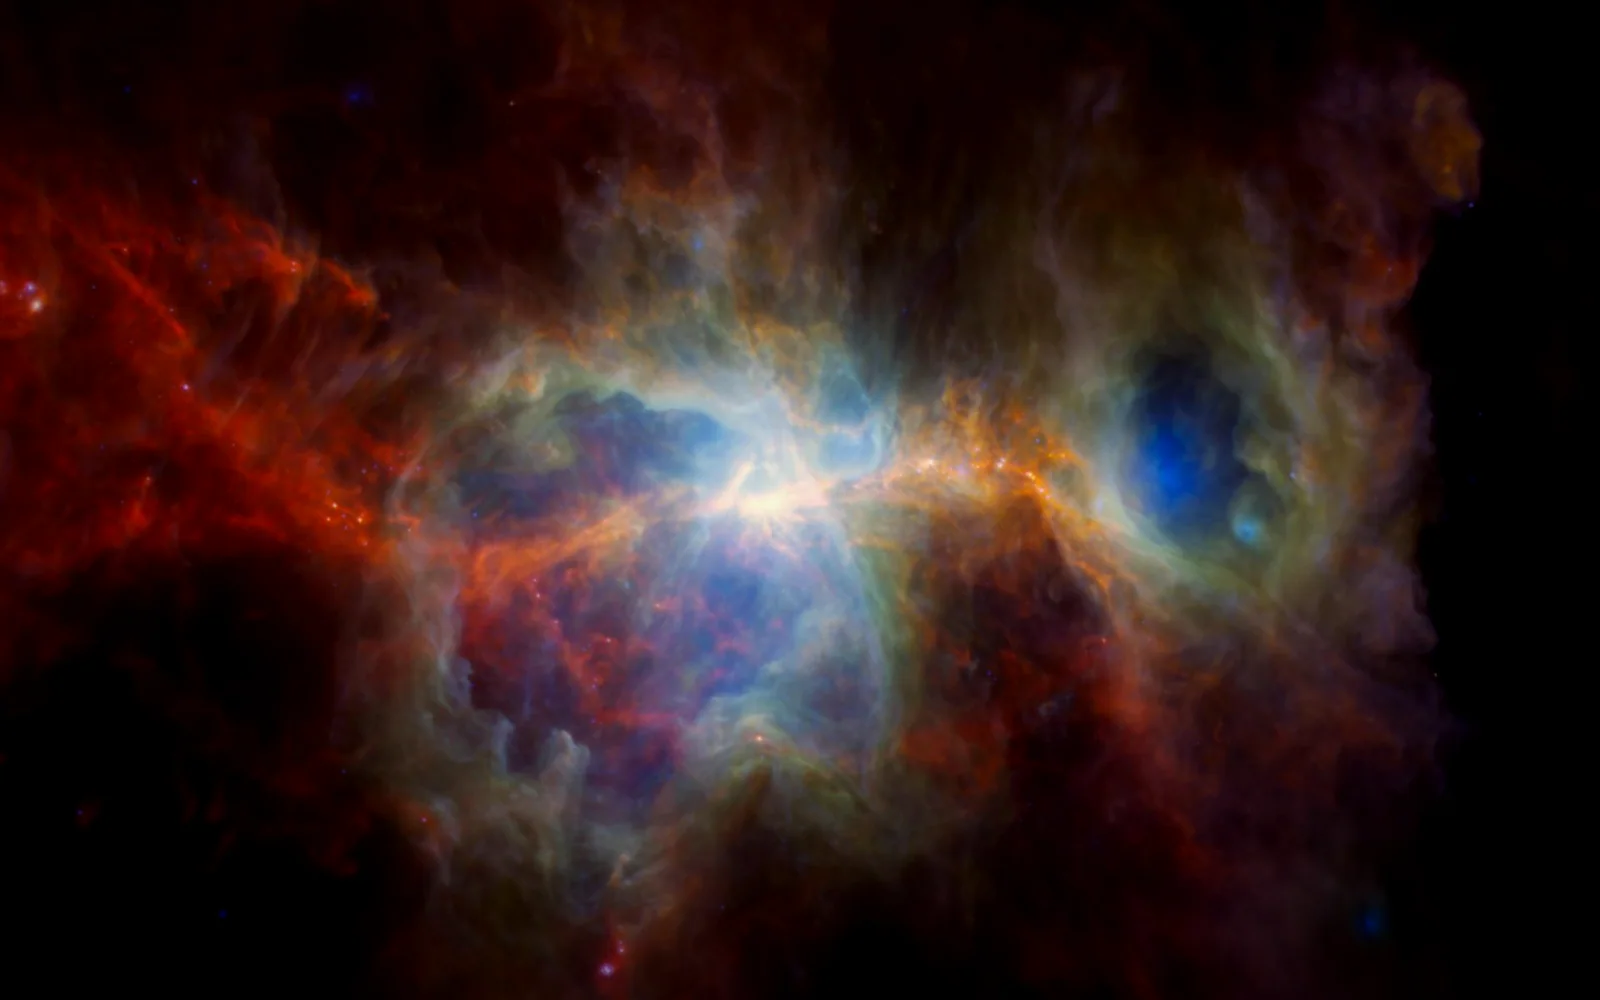
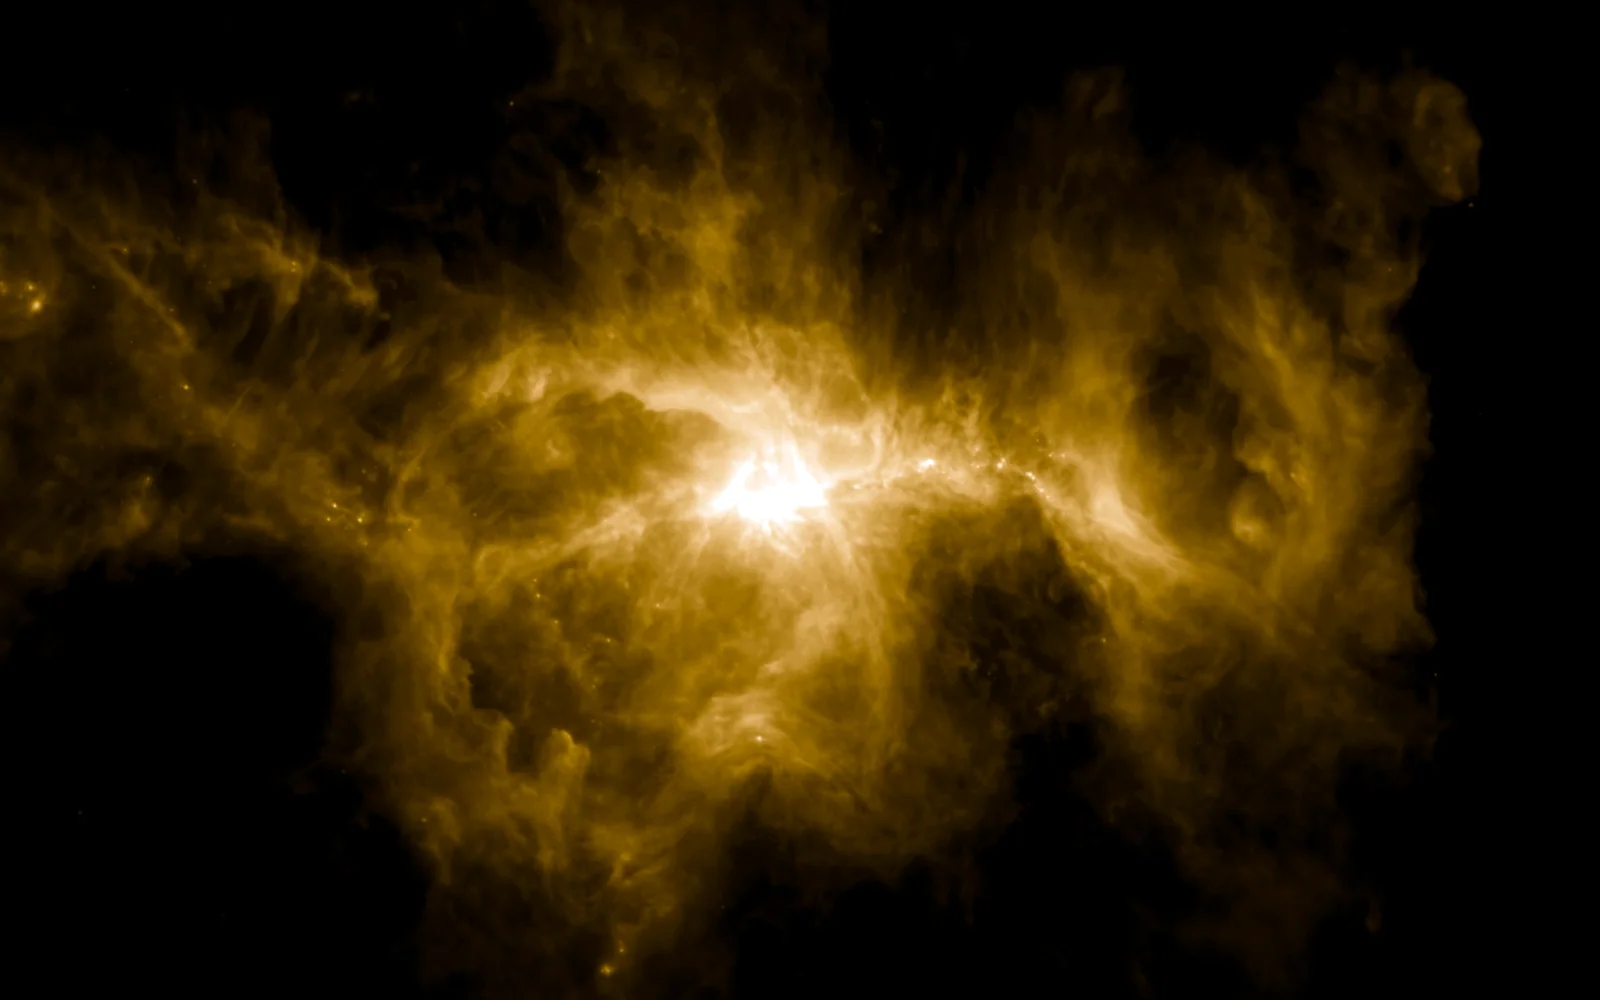
art(arcade): 星域突围精选卡 key art 去紫，改走琥珀双色调 / purge purple from the flagship key art
原图（NASA 猎户座星云 PIA25434）保留原色时呈紫/品红，违反品牌禁紫红线，而代码层 grep 抓不到图片层。改为复用脚本已有的 duotone 通道收敛到品牌琥珀 #D8A33C。

其余 5 张 key art 重跑后字节完全一致，未受影响。

rules.md §14 补录本次踩坑：Next 16 图片缓存在 .next/dev/cache/images（按输出格式分条存），删目录后必须重启 dev server，且取证要用浏览器同款 Accept 头。

diff --git a/asternova/docs/ui-polish/rules.md b/asternova/docs/ui-polish/rules.md
@@ -127,6 +127,14 @@
   实为**后端服务已随子代理会话结束被回收**，探针打在浏览器错误页上；而**错误页的 rAF 照样跑**，
   于是 `rafFrames=75` 成了彻头彻尾的假阳性。戳破它的是 `localStorage: Access is denied`（错误页是 opaque origin）。
 - 视觉验收**必须亲眼看图**，不要用「我改完了」代替；改动涉及图片时记得**注销 Service Worker + 清 CacheStorage** 再截图，否则会读到旧图。
+- ⚠ **换了图片素材仍看到旧图时，先查 Next 16 的服务端图片缓存，而不是怀疑自己没改对**（2026-09-27 实测 30 分钟）：
+  - 缓存路径是 **`.next/dev/cache/images/`**（不是旧版本的 `.next/cache/images`，后者是升级残留，删了没用）；
+  - 缓存**按输出格式分别存**（同一 URL 的 webp 变体与 jpeg 变体是两条独立缓存），
+    所以会出现「我直接 curl 看到的是新图、浏览器看到的还是旧图」这种极难自证的假象 ——
+    因为浏览器的 `Accept: image/avif,image/webp,...` 命中的是另一条缓存；
+  - 取证时**必须用浏览器同款 Accept 头**复现：`Invoke-WebRequest -Headers @{Accept="image/avif,image/webp,*/*;q=0.8"}`；
+  - 正确处置：删 `.next/dev/cache/images` **并重启 dev server**（只删目录不重启仍有内存态）；
+  - 反过来，判断「我到底改对没有」的最快手段是**直接比对 `public/` 下源文件的字节数/哈希**，而不是看图。
 - 需要渲染状态但无法从 DOM 观察时，挂**只读调试钩子**（先例：`window.__staEngine`）。它是定位上面那个 NaN 的唯一手段。
 
 ## 15. 缩放容器禁令（2026-09-27 取证，比 §11 更硬的一条）

diff --git a/asternova/web-client/public/art/arcade/CREDITS.md b/asternova/web-client/public/art/arcade/CREDITS.md
@@ -9,7 +9,7 @@
 | `shoot-them-all` | 蟹状星云（超新星爆发遗迹） | [PIA03606](https://images.nasa.gov/details-PIA03606) | Most Detailed Image of the Crab Nebula | JPL / NASA/ESA/JPL/Arizona State Univ. | 分离调色（暖高光 + 暗角） |
 | `lets-running` | 木星边缘与大红斑（沿弧线的疾驰感） | [PIA21778](https://images.nasa.gov/details-PIA21778) | Jupiter: A New Point of View | JPL | 分离调色（暖高光 + 暗角） |
 | `merge` | 触须星系（两星系合并） | [GSFC_20171208_Archive_e001327](https://images.nasa.gov/details-GSFC_20171208_Archive_e001327) | NASA Hubble Sees Sparring Antennae Galaxies | GSFC | 分离调色（暖高光 + 暗角） |
-| `nebula-survivor` | 猎户座星云 | [PIA25434](https://images.nasa.gov/details-PIA25434) | Orion Nebula in Infrared | JPL / ESA/NASA/JPL-Caltech | 分离调色（暖高光 + 暗角） |
+| `nebula-survivor` | 猎户座星云 | [PIA25434](https://images.nasa.gov/details-PIA25434) | Orion Nebula in Infrared | JPL / ESA/NASA/JPL-Caltech | 琥珀双色调 #D8A33C |
 | `xiaoxiaole` | 土星极地六边形与环（Hail the Hexagon） | [PIA21327](https://images.nasa.gov/details-PIA21327) | Hail the Hexagon | JPL / NASA/JPL-Caltech/Space Science Institute | 琥珀双色调 #D8A33C |
 | `bg-nebula` | 船底座星云（大厅背景氛围） | [carina_nebula](https://images.nasa.gov/details-carina_nebula) | James Webb Space Telescope NIRCam Image of the “Cosmic Cliffs” in Carina Nebula | STScI (Webb) / NASA ESA CSA STScI | 分离调色（暖高光 + 暗角） |
 
